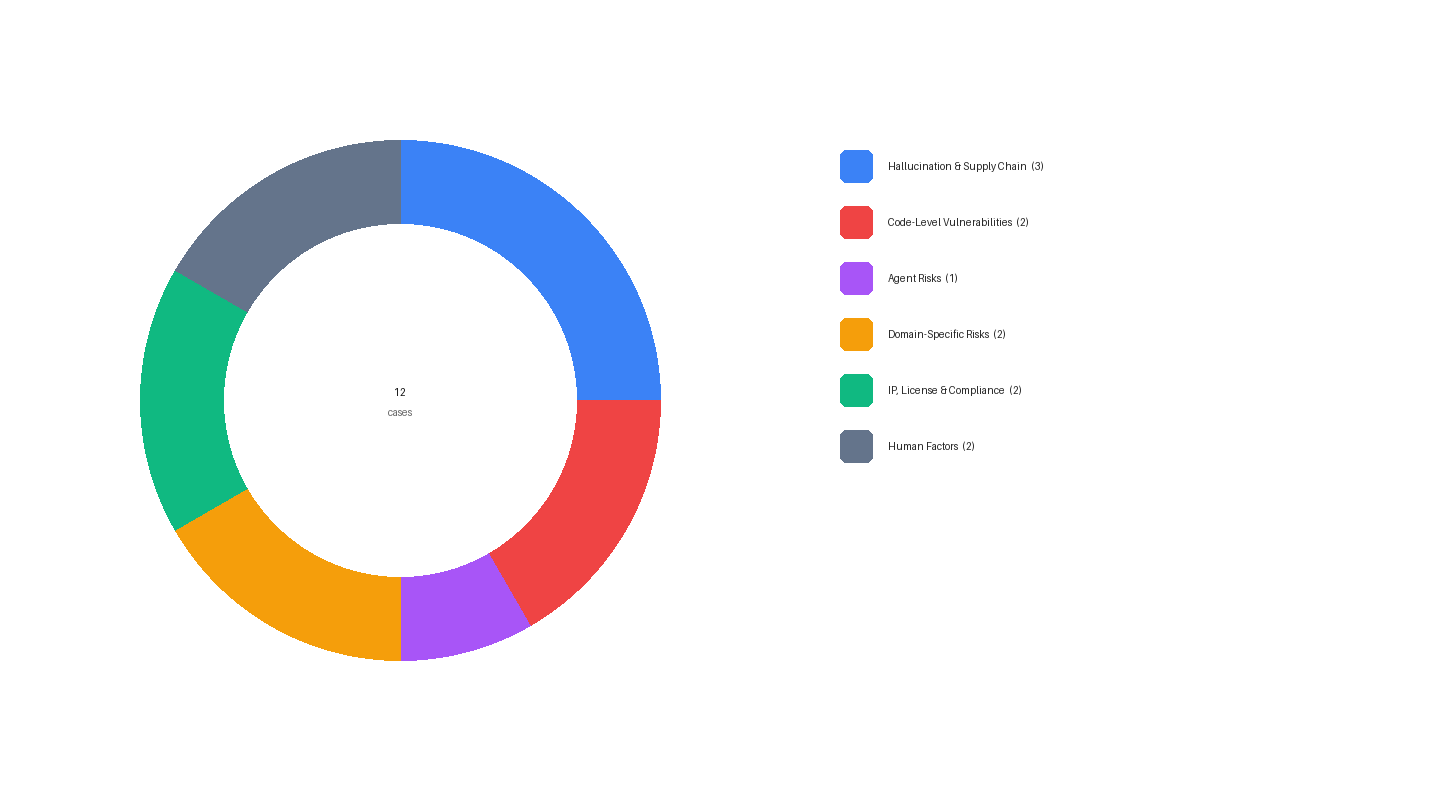
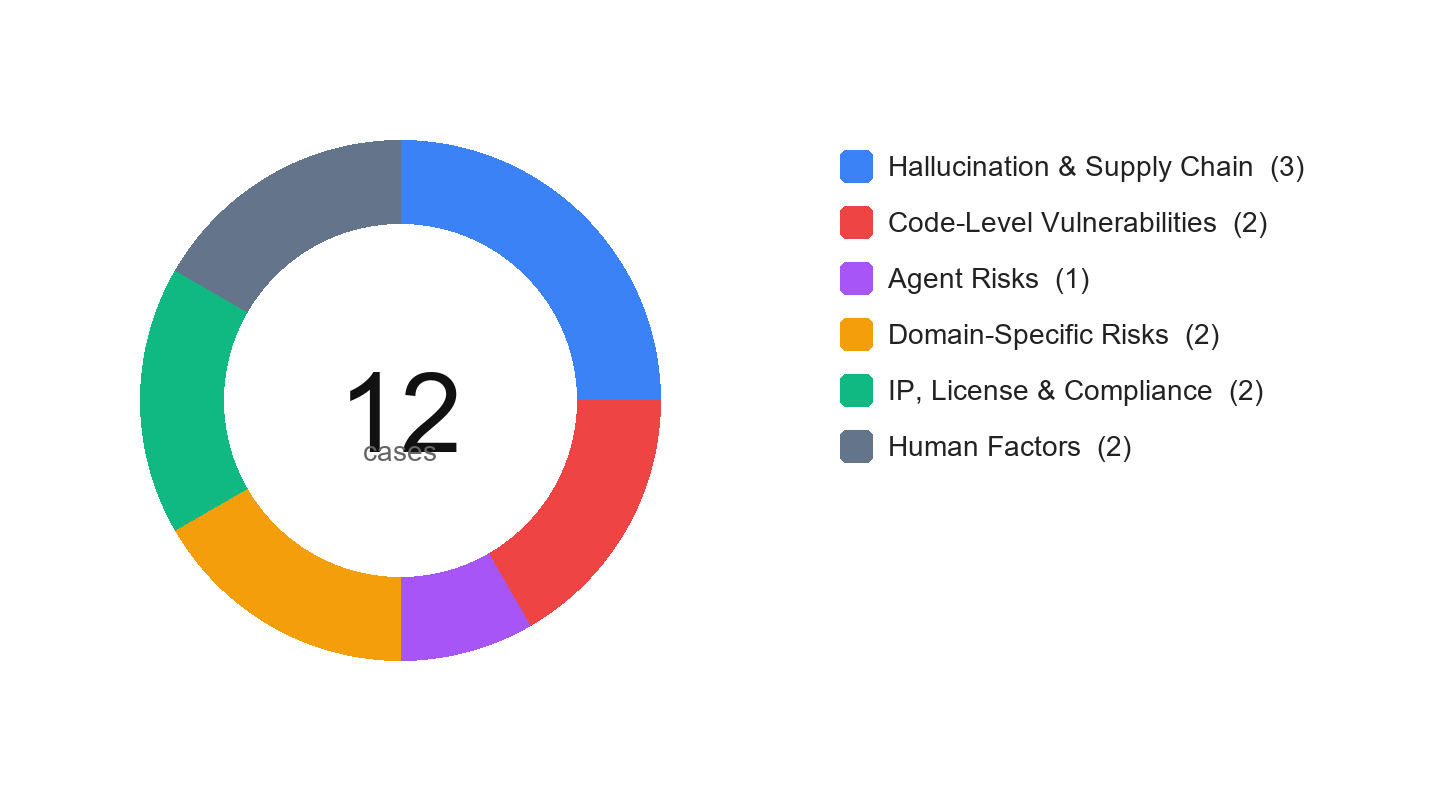
Fix render_index.py to support Windows fonts

diff --git a/scripts/render_index.py b/scripts/render_index.py
@@ -248,6 +248,8 @@ def render_category_png(cases: list[dict], out_path: Path) -> bool:
             "/usr/share/fonts/truetype/dejavu/DejaVuSans-Bold.ttf",
             "/usr/share/fonts/truetype/dejavu/DejaVuSans.ttf",
             "/Library/Fonts/Arial.ttf",
+            "C:/Windows/Fonts/arial.ttf",
+            "C:/Windows/Fonts/arialbd.ttf",
         ]:
             if Path(path).exists():
                 try:
@@ -321,6 +323,8 @@ def render_timeline_png(cases: list[dict], out_path: Path) -> bool:
             "/usr/share/fonts/truetype/dejavu/DejaVuSans-Bold.ttf",
             "/usr/share/fonts/truetype/dejavu/DejaVuSans.ttf",
             "/Library/Fonts/Arial.ttf",
+            "C:/Windows/Fonts/arial.ttf",
+            "C:/Windows/Fonts/arialbd.ttf",
         ]:
             if Path(path).exists():
                 try: